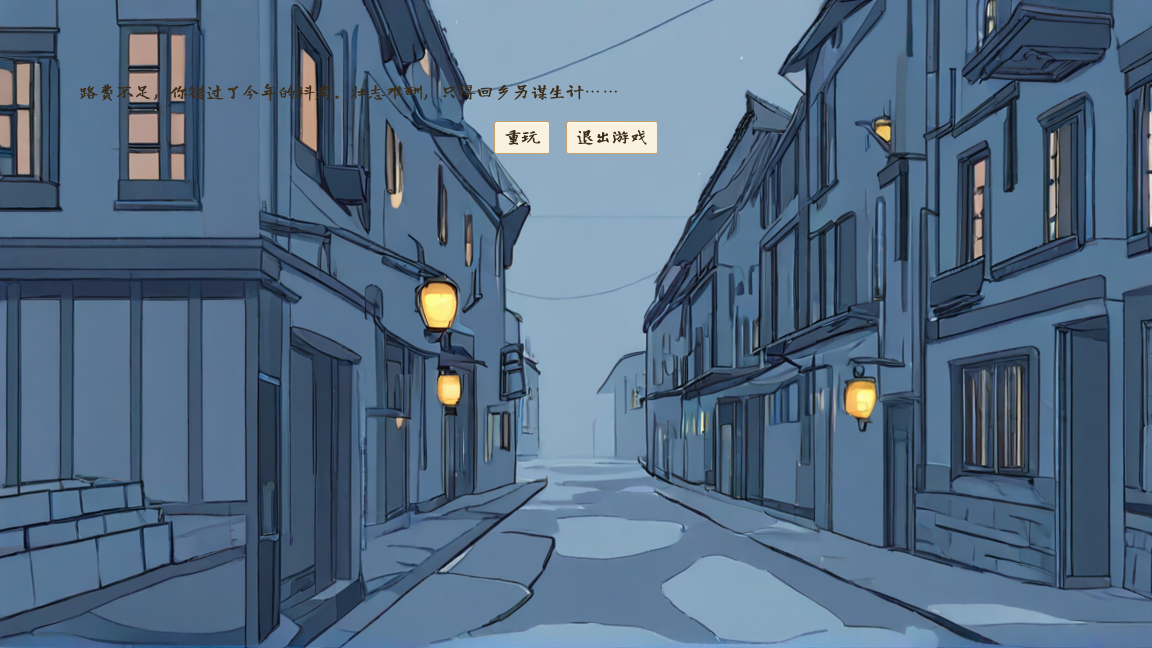
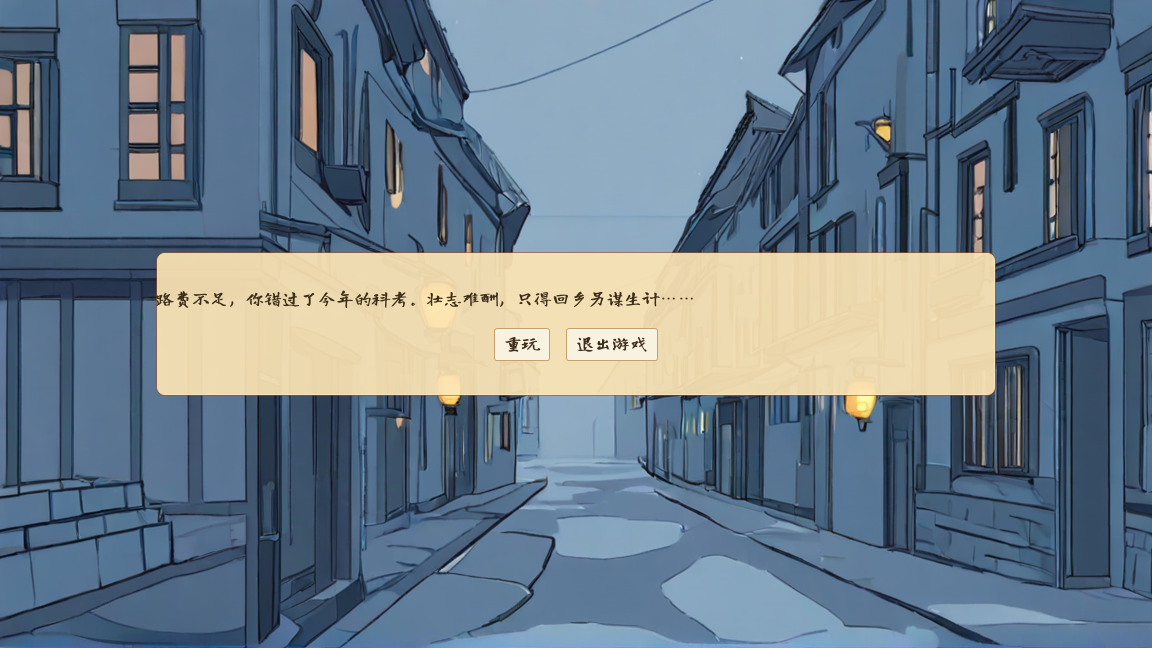
fix(ui): 结局/序章界面内容居中 + 加文字底板（接入背景后暴露的两个问题）
承接上一条（接入背景）。**接入背景之后才显出来**两个此前看不见的问题，本轮都修了。

① 内容偏上：结局界面文字与按钮堆在顶部。
   根因：VBoxContainer 是 anchors_preset=15（全屏），子节点默认 SIZE_FILL 被拉伸顶到最上。
   修法：居中锚点固定宽高 + 容器 alignment = 1（ALIGNMENT_CENTER）。
   实测（文字带中心 vs 画面中心 324）：success 321(-3)、gameover 324(0)、prologue 321(-3)。
   修复前 prologue 是 224.5（偏上 100px）。

② 文字看不清：深色背景（gameover）上深色文字几乎不可读。
   根因：全局主题的 Label 是**深墨色**，本是配合浅色面板设计的，背景一换就失效。
   修法：加 TextBacking（StyleBoxFlat，半透明宣纸色 rgba(0.988,0.894,0.706,0.92) + 细边框）。
   三个界面统一。

⚠ **一次走错的路（已写进 playbook 第 19 条，省得重走）**：
  我先试的是给子节点加 size_flags_vertical = 4（SIZE_SHRINK_CENTER）—— **实测完全无效**，
  改前改后截图**逐像素完全相同（0 个不同像素）**。
  真正的开关是**容器的 alignment**（class_boxcontainer.rst:94-98,119-130，ALIGNMENT_CENTER = 1）。

⚠ 记录一条**新的观察陷阱（playbook 第 20 条）**：
  --script 探针里 SceneTree 默认视口是 100x100，instantiate 后所有 Control 报 size=(0,0)，
  看着像"布局没生效"，其实是观察方式的问题（本项目第 3 条纪律同类）。
  判据：探针先 get_root().size = Vector2i(1152,648)；且**决定性判据是截图逐像素差异**
  （ImageChops.difference 的 getbbox() 是否为 None），不是肉眼估 y 坐标。

顺带查清一个**独立的字体问题（未修，已记录）**：
  success 文案「得以赶赴科考」的「以」显示成怪符号。已查清**不是缺字形、也不是兜底失效** ——
  用 Pillow 直接以 hanchanlongcang.otf 渲染得到同样形状（墨迹占比 0.066，异常偏低），
  即**寒蝉龙藏体这个字的设计本身如此**。要修得换字体或换文案，属独立事项。
  证据：docs/screenshots/failed/font_glyph_render.png、font_glyph_yi_issue.png

验证：三个场景截图 exit=0、均 1152×648、无 ERROR；
      行尾 CRLF→LF 规范化后重截，与规范化前**逐像素完全一致**（确认解析未受影响）。

更新：scenes/{success,gameover,prologue}.tscn、scripts/{EndGameScreen,prologue}.gd、
      docs/AI_PLAYBOOK.md（新增第 19、20 条并同步镜像，-Check 逐字节一致）、
[…]

Changed region(s): [[0.125, 0.3704, 0.875, 0.6173], [0.0625, 0.1235, 0.5312, 0.1543], [0.4062, 0.1852, 0.5938, 0.2469]]

diff --git a/docs/AI_PLAYBOOK.md b/docs/AI_PLAYBOOK.md
@@ -110,6 +110,18 @@ whenToUse: 任务涉及 Godot 引擎 / GDScript / 场景 / 节点 / 信号 / 资
 18. **改 Markdown 章节后必须跑结构守卫，别靠眼睛**：**拿"标题行"当 edit 锚点**最容易漏写回旧标题，
     正文就成了"挂在上一节下面"的孤儿（内容都在，肉眼看着正常）。判据：**`node tools/md_structure_check.mjs
     <file.md>`**（本项目工具，带 `--selftest`）；插入章节**以正文首行当锚点**。
+19. **想让容器里的子节点"居中"，要改容器的 `alignment`，不是子节点的 `size_flags_vertical`**。
+    实测（2026-10-13）：给 `VBoxContainer` 的子节点加 `size_flags_vertical = 4`（`SIZE_SHRINK_CENTER`）
+    **完全无效** —— 改前改后截图**逐像素完全相同（0 个不同像素）**；真正生效的是
+    容器的 `alignment = 1`（`ALIGNMENT_CENTER`，`classes\class_boxcontainer.rst:94-98,119-130`）。
+    判据：内容偏上时先查该容器**有没有 `alignment`**。另：`size_flags_*` 的常量语义见
+    `classes\class_control.rst:955-993`（`SIZE_FILL=1` / `EXPAND=2` / `EXPAND_FILL=3` / `SHRINK_CENTER=4`）。
+20. **`--script` 探针里 Control 的布局算不出来（size 恒为 0）—— 这是观察方式的问题，不是布局坏了**。
+    实测（2026-10-13）：`SceneTree` 默认视口是 **100×100**，`instantiate()` 后所有 `Control`
+    报 `size=(0,0)`、`pos` 全是锚点位移，看着像"改动没生效"。判据：探针里**先 `get_root().size =
+    Vector2i(1152, 648)`** 再 `add_child`；即便如此，`--script` 下容器仍可能不排布 ——
+    **决定性判据是"截图逐像素比差异"**（`ImageChops.difference` 的 `getbbox()` 是否为 `None`），
+    而不是靠肉眼估 y 坐标。
 
 # 维护与导出
 
